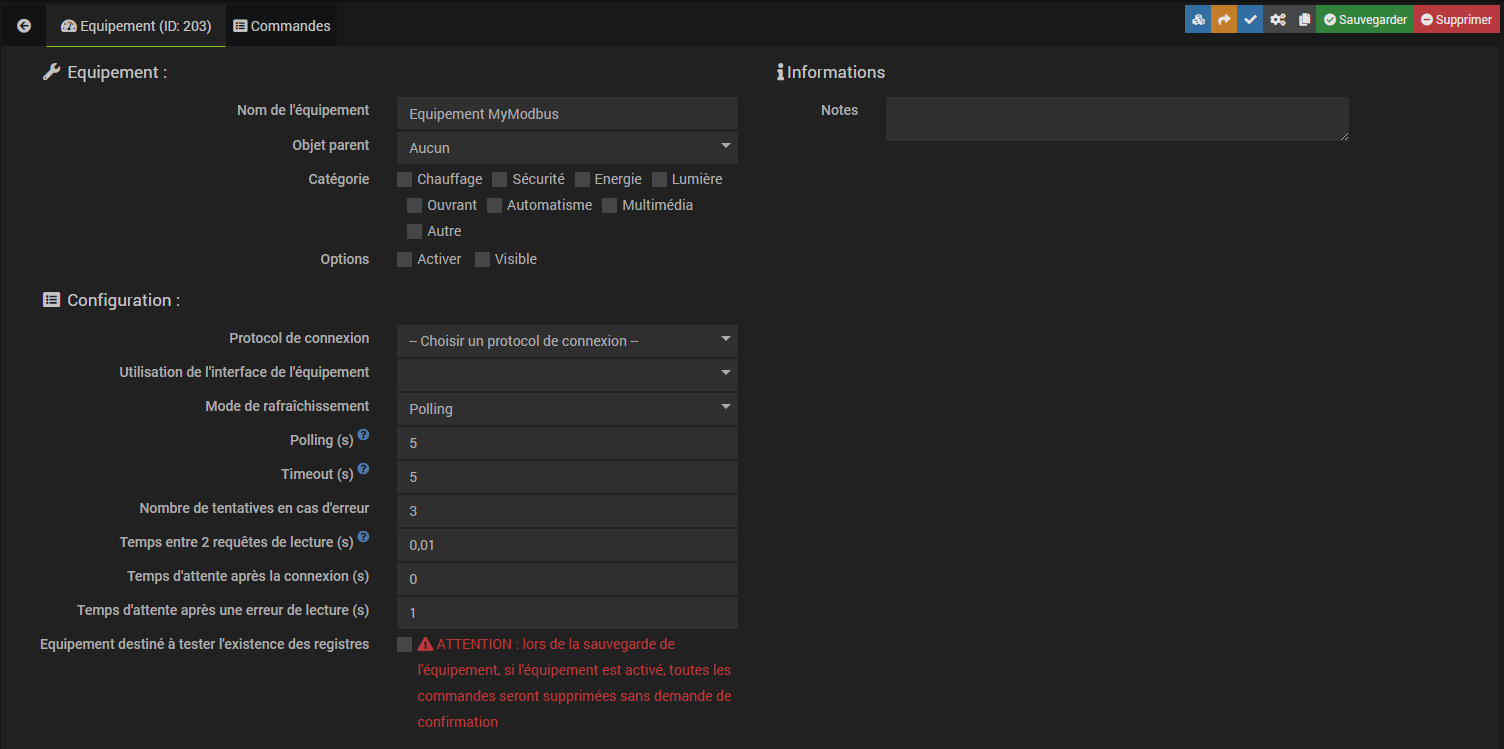
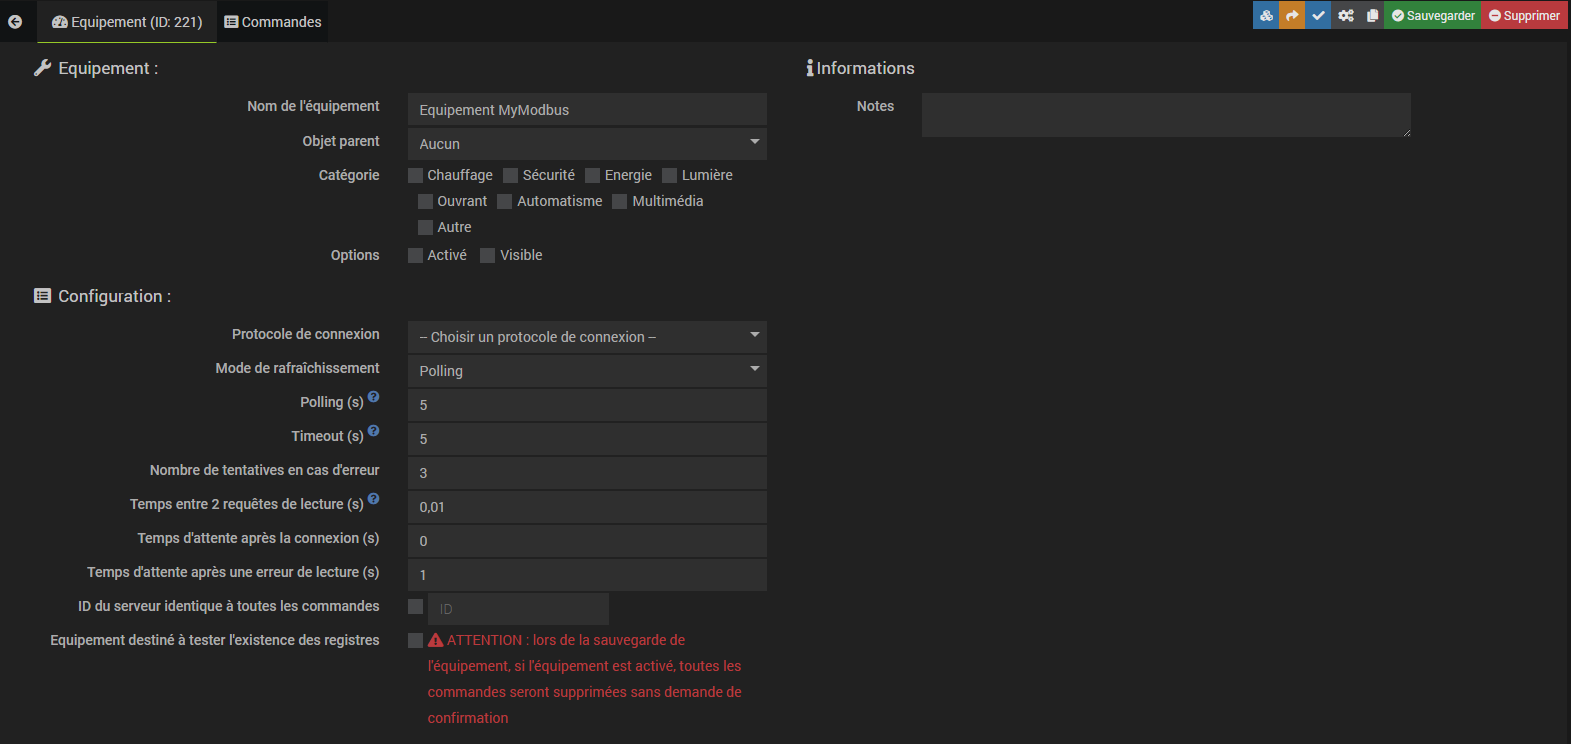
Màj doc MyModbus

diff --git a/docs/fr_FR/mymodbus_doc.md b/docs/fr_FR/mymodbus_doc.md
@@ -83,10 +83,10 @@ MyModbus lance un démon écrit en Python qui utilise le module [pymodbus](https
 Dans la documentation de pymodbus, on peut voir que la version minimale requise pour pouvoir l'utiliser est
 Python3, de préférence la version 3.11, ne vous inquiétez pas, ce point est géré quelle que soit la version installée
 sur votre machine Jeedom.  
-Dans la mesure du possible MyModbus utilisera la dernière version de pymodbus.
+Dans la mesure du possible MyModbus utilisera la dernière version stable de pymodbus.
 
 Un jour, j'ai développé le plugin pyenv4Jeedom pour gérer l'installation de la bonne version de python. Ce plugin est
-abandonné et peut être désinstallé. MyModbus utilise une bibliothèque développée par Mips, nebz et TiTiDom pour faire
+abandonné et peut être désinstallé. MyModbus utilise des bibliothèques développées par Mips, nebz et TiTiDom pour faire
 la même chose. Tout est transparent pour l'utilisateur.
 
 ***
@@ -118,8 +118,11 @@ Pour chaque équipement, il faut préciser le type de connexion ainsi que les pa
 
 Pour chaque commande, il faut préciser les type et sous-type Jeedom ainsi que les paramètres de la requête Modbus.
 
-Le fait de sauvegarder la configuration lance une validation. Si la configuration est valide, la configuration du
-démon est actualisée.
+Il est possible de configurer l'ID pour toutes les commandes de l'équipement en cochant la case "ID du serveur
+identique à toutes les commandes" et en précisant l'ID.
+
+Le fait de sauvegarder la configuration lance une validation. Si la configuration est valide, la configuration de
+l'équipement est effectivement sauvegardée et le démon est actualisé s'il est démarré.
 
 La configuration se fait via Plugins / Protocole domotique / MyModbus :  
 ![Accès à la configuration](../images/mymodbus/Menu_configuration.png)
@@ -262,13 +265,13 @@ tester.
 Le message est clair : lors de la sauvegarde de l'équipement, si l'équipement est activé, toutes les commandes seront
 supprimées sans demande de confirmation.
 
-Dans ce cas, toutes les commandes info sont systématiquement supprimées lors de la sauvegarde et les commandes nécessaires
-sont automatiquement créées. Ici un exemple qui correspond à la capture précédente :
+Dans ce cas, toutes les commandes info sont systématiquement supprimées lors de la sauvegarde et les commandes
+nécessaires sont automatiquement créées. Ici un exemple qui correspond à la capture précédente :
 
 ![Commandes de test](../images/mymodbus/Commandes_test.png)
 
-Si le démon est démarré et l'équipement activé, le test de la commande de rafraichissement lance un cycle de lecture des
-registres à tester.  
+Si le démon est démarré et l'équipement activé, le test de la commande de rafraichissement lance un cycle de lecture
+des registres à tester.  
 Le résultat de la lecture des registres est affiché :
 
 ![Résultat des test](../images/mymodbus/Résultat_test.png)
@@ -288,8 +291,8 @@ Le résultat de la lecture des registres est affiché :
 
 Après la création d'un équipement, la liste des commandes est vide (à part les 4 commandes créées par le plugin).
 
-Pour créer une nouvelle commande, il faut cliquer sur le bouton "Ajouter une commande". La nouvelle commande est ajoutée
-à la fin de la liste et peut être déplacée avec un cliquer-déplacer.
+Pour créer une nouvelle commande, il faut cliquer sur le bouton "Ajouter une commande". La nouvelle commande est
+ajoutée à la fin de la liste et peut être déplacée avec un cliquer-déplacer.
 
 Vous pouvez commencer par donner un nom à la commande et définir s'il s'agit d'une commande info ou action. Si une
 commande n'a pas de nom, la configuration n'est pas enregistrée.
@@ -494,7 +497,7 @@ Au moment de la sauvegarde d'un équipement et de ses commandes, la cohérence d
 d'erreur, la sauvegarde est invalidée et un message apparaît avec l'erreur.  
 La première ligne du message correspond au nom de l'équipement si l'erreur est sur l'équipement ou au nom de la
 commande qui a une erreur. Les messages sont assez explicites et les erreurs doivent être corrigées pour que la
-sauvegarde soit faite.
+sauvegarde soit possible.
 
 Exemple d'erreur sur la configuration de l'équipement 'Equipement MyModbus' :  
 ![Erreur sur un équipement](../images/mymodbus/Erreur_equipement.png)
@@ -502,11 +505,22 @@ Exemple d'erreur sur la configuration de l'équipement 'Equipement MyModbus' :
 Exemple d'erreur sur la configuration de la commande 'Température extérieure' :  
 ![Erreur sur une commande](../images/mymodbus/Erreur_commande.png)
 
+# Templates
+
+Si vous pensez avoir un template interessant pour d'autres utilisateurs Jeedom qui auraient le même appareil que vous,
+vous pouvez :
+- le proposer sur le [community de Jeedom](https://community.jeedom.com/) en précisant l'étiquette `#plugin-mymodbus`
+pour que je sois prévenu,
+- faire une PR sur le [dépôt github de MyModbus](https://github.com/MrWaloo/jeedom-mymodbus).  
+
+De cette manière la bibliothèque s'étoffera.
+
 # En cas de problème
 
-En cas de problème d'utilisation du plugin, vous pouvez poster sur le [community de Jeedom](https://community.jeedom.com/).
-En précisant l'étiquette `#plugin-mymodbus` je serai prévenu, inutile de me tagger. Je consulte régulièrement le community,
-vous ne devriez donc pas attendre trop longtemps pour avoir une réponse.
+En cas de problème d'utilisation du plugin, vous pouvez poster sur le
+[community de Jeedom](https://community.jeedom.com/).
+En précisant l'étiquette `#plugin-mymodbus` je serai prévenu, inutile de me tagger. Je consulte régulièrement le
+community, vous ne devriez donc pas attendre trop longtemps pour avoir une réponse.
 
 ## Problème d'installation du plugin
 
@@ -519,8 +533,8 @@ Et bien évidemment mettre un maximum d'informations.
 
 ## Problème d'utilisation
 
-Si vous n'arrivez pas à vos fins et que vous avez besoin d'aide pour la configuration de MyModbus, assurez-vous d'avoir la
-dernière version stable ou bêta selon votre choix.
+Si vous n'arrivez pas à vos fins et que vous avez besoin d'aide pour la configuration de MyModbus, assurez-vous d'avoir
+la dernière version stable ou bêta selon votre choix.
 
 Commencez un nouveau fil de discussion en précisant l'étiquette `#plugin-mymodbus` et donnez :
 - un maximum de détail sur le matériel et ce que vous souhaitez faire,
@@ -533,7 +547,7 @@ Ca fait beaucoup de choses, mais sans tout cela, il est difficile de vous venir 
 
 ## Problème du plugin
 
-Il se peut que le plugin ne fonctionne pas correctement, dans ce cas, il vous est possible de rapporter les erreurs sur le
-[community de Jeedom](https://community.jeedom.com/) dans un fil de discussion dédié ou de poster une *issue* sur le
+Il se peut que le plugin ne fonctionne pas correctement, dans ce cas, il vous est possible de rapporter les erreurs sur
+le [community de Jeedom](https://community.jeedom.com/) dans un fil de discussion dédié ou de poster une *issue* sur le
 [dépôt github de MyModbus](https://github.com/MrWaloo/jeedom-mymodbus).  
 Libre à vous de proposer ou non une PR de correction que j'étudierai.
